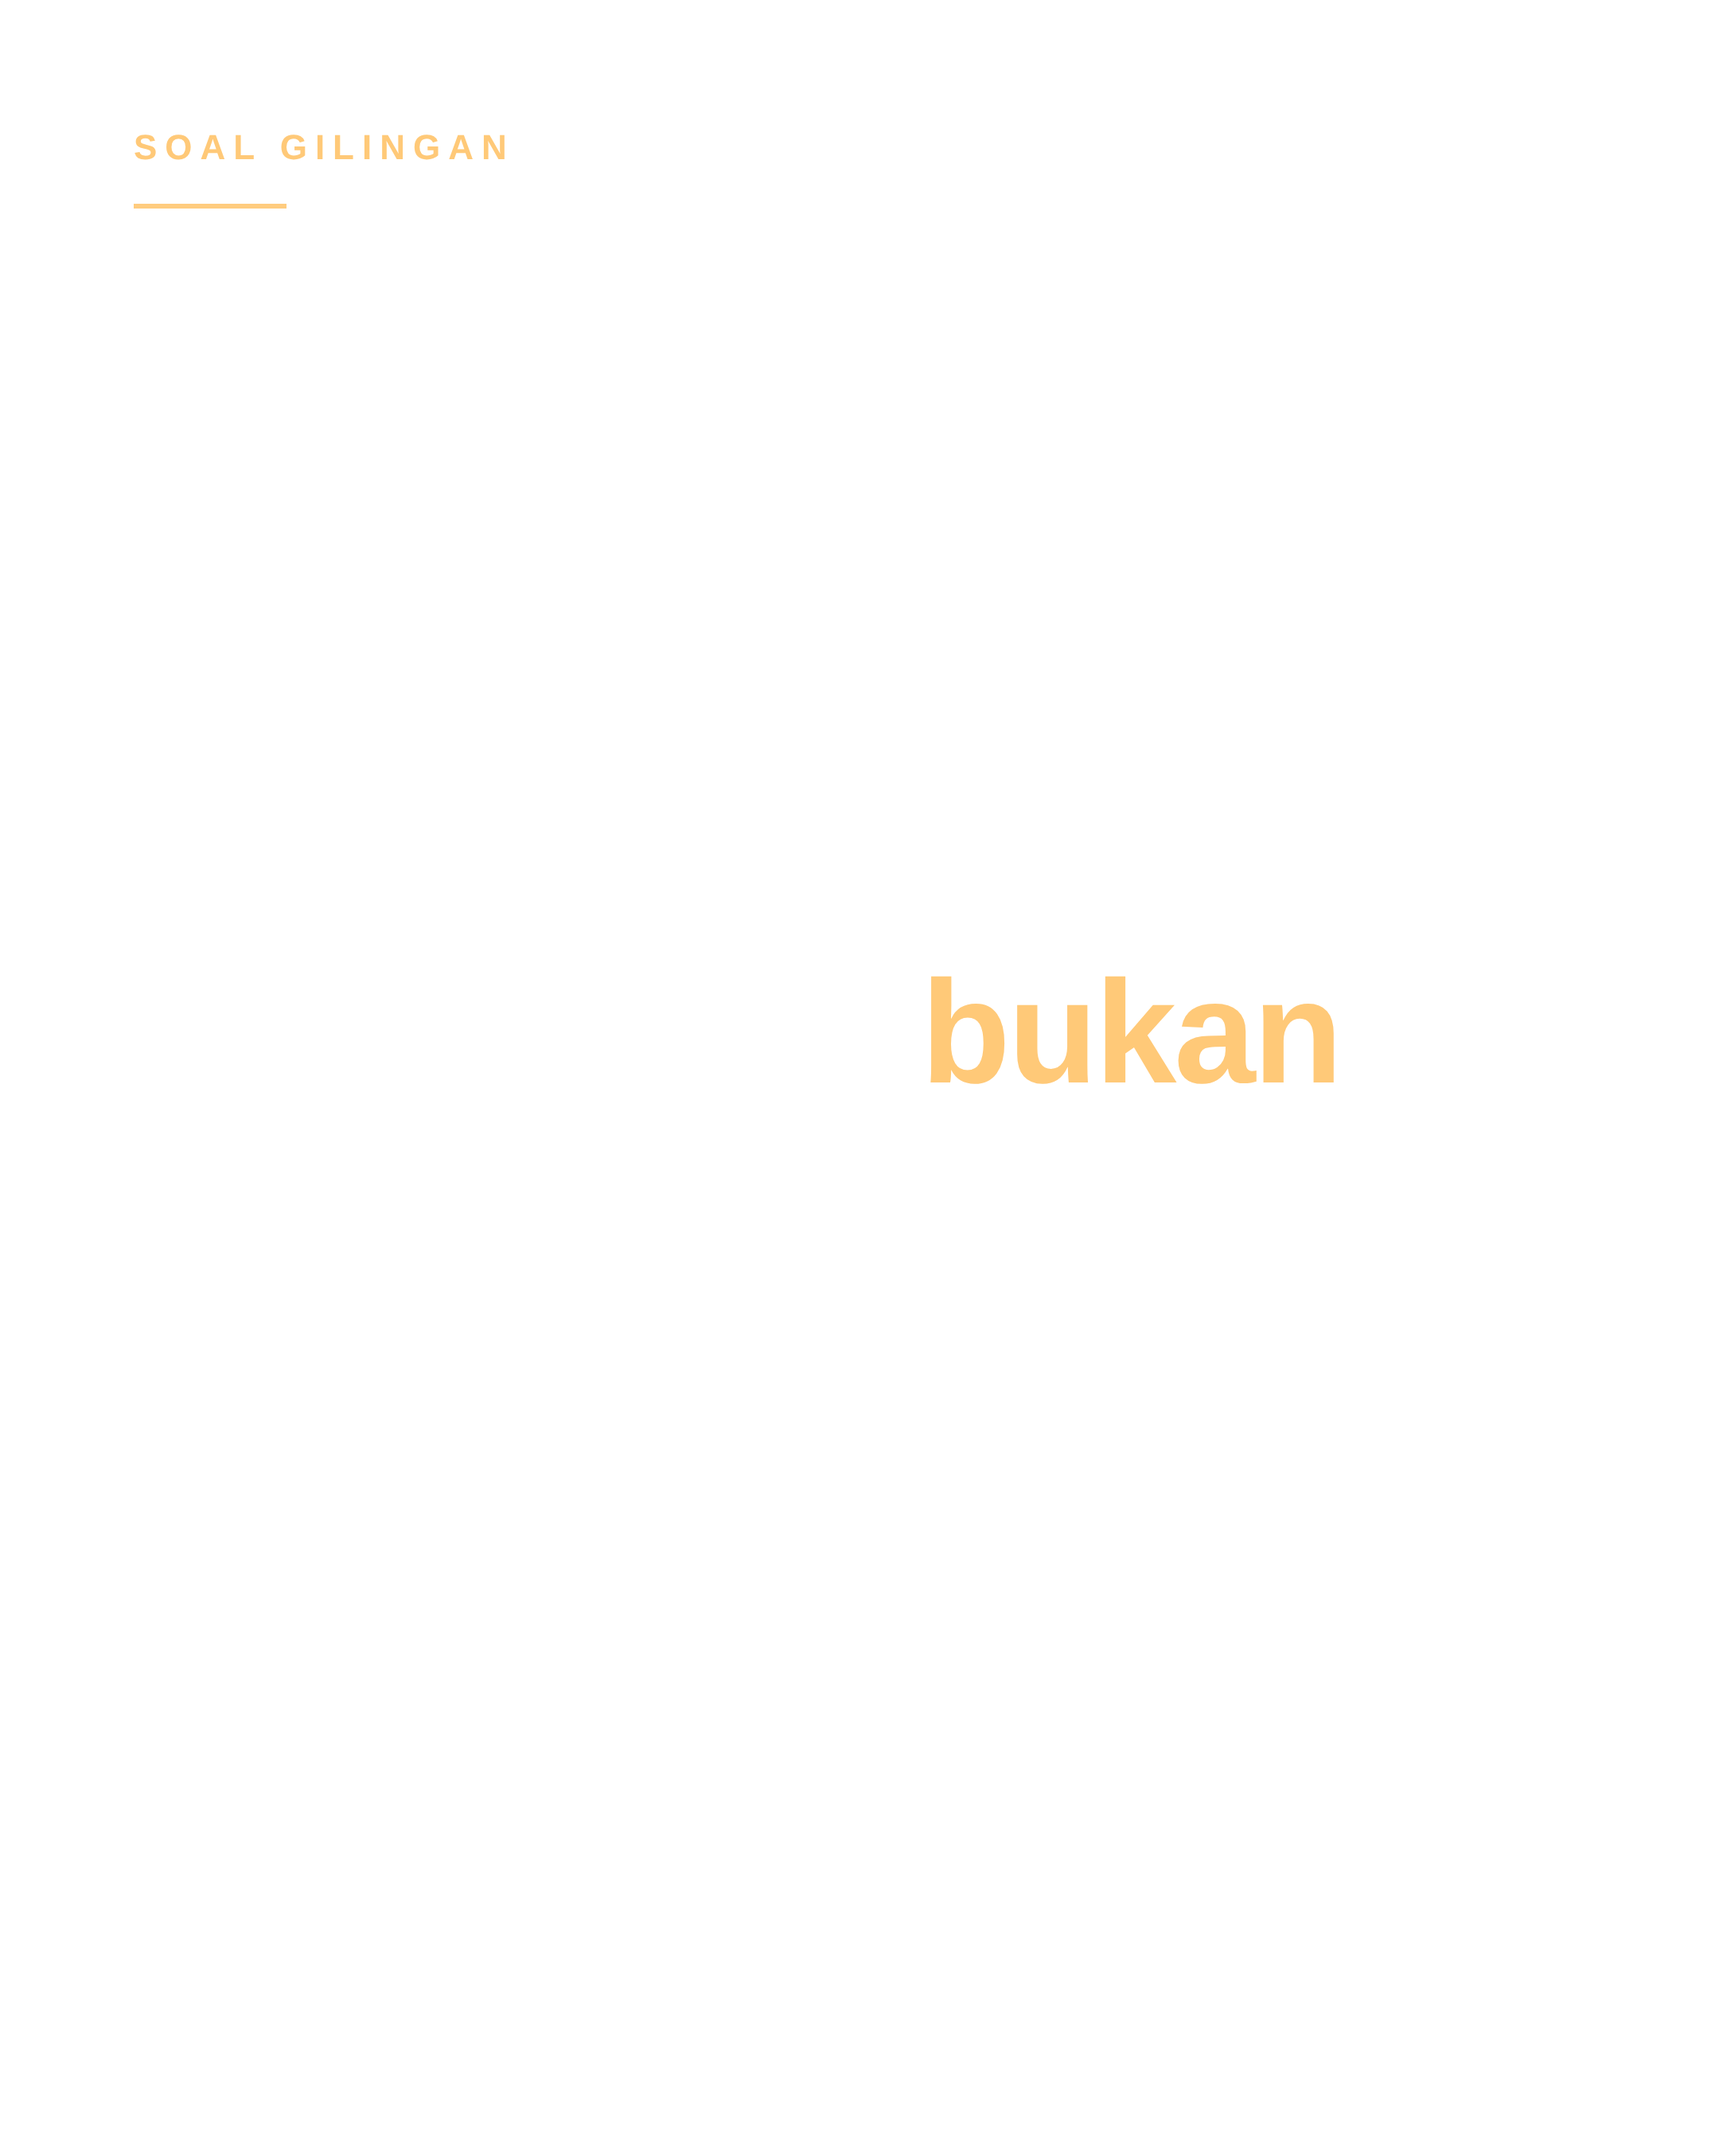
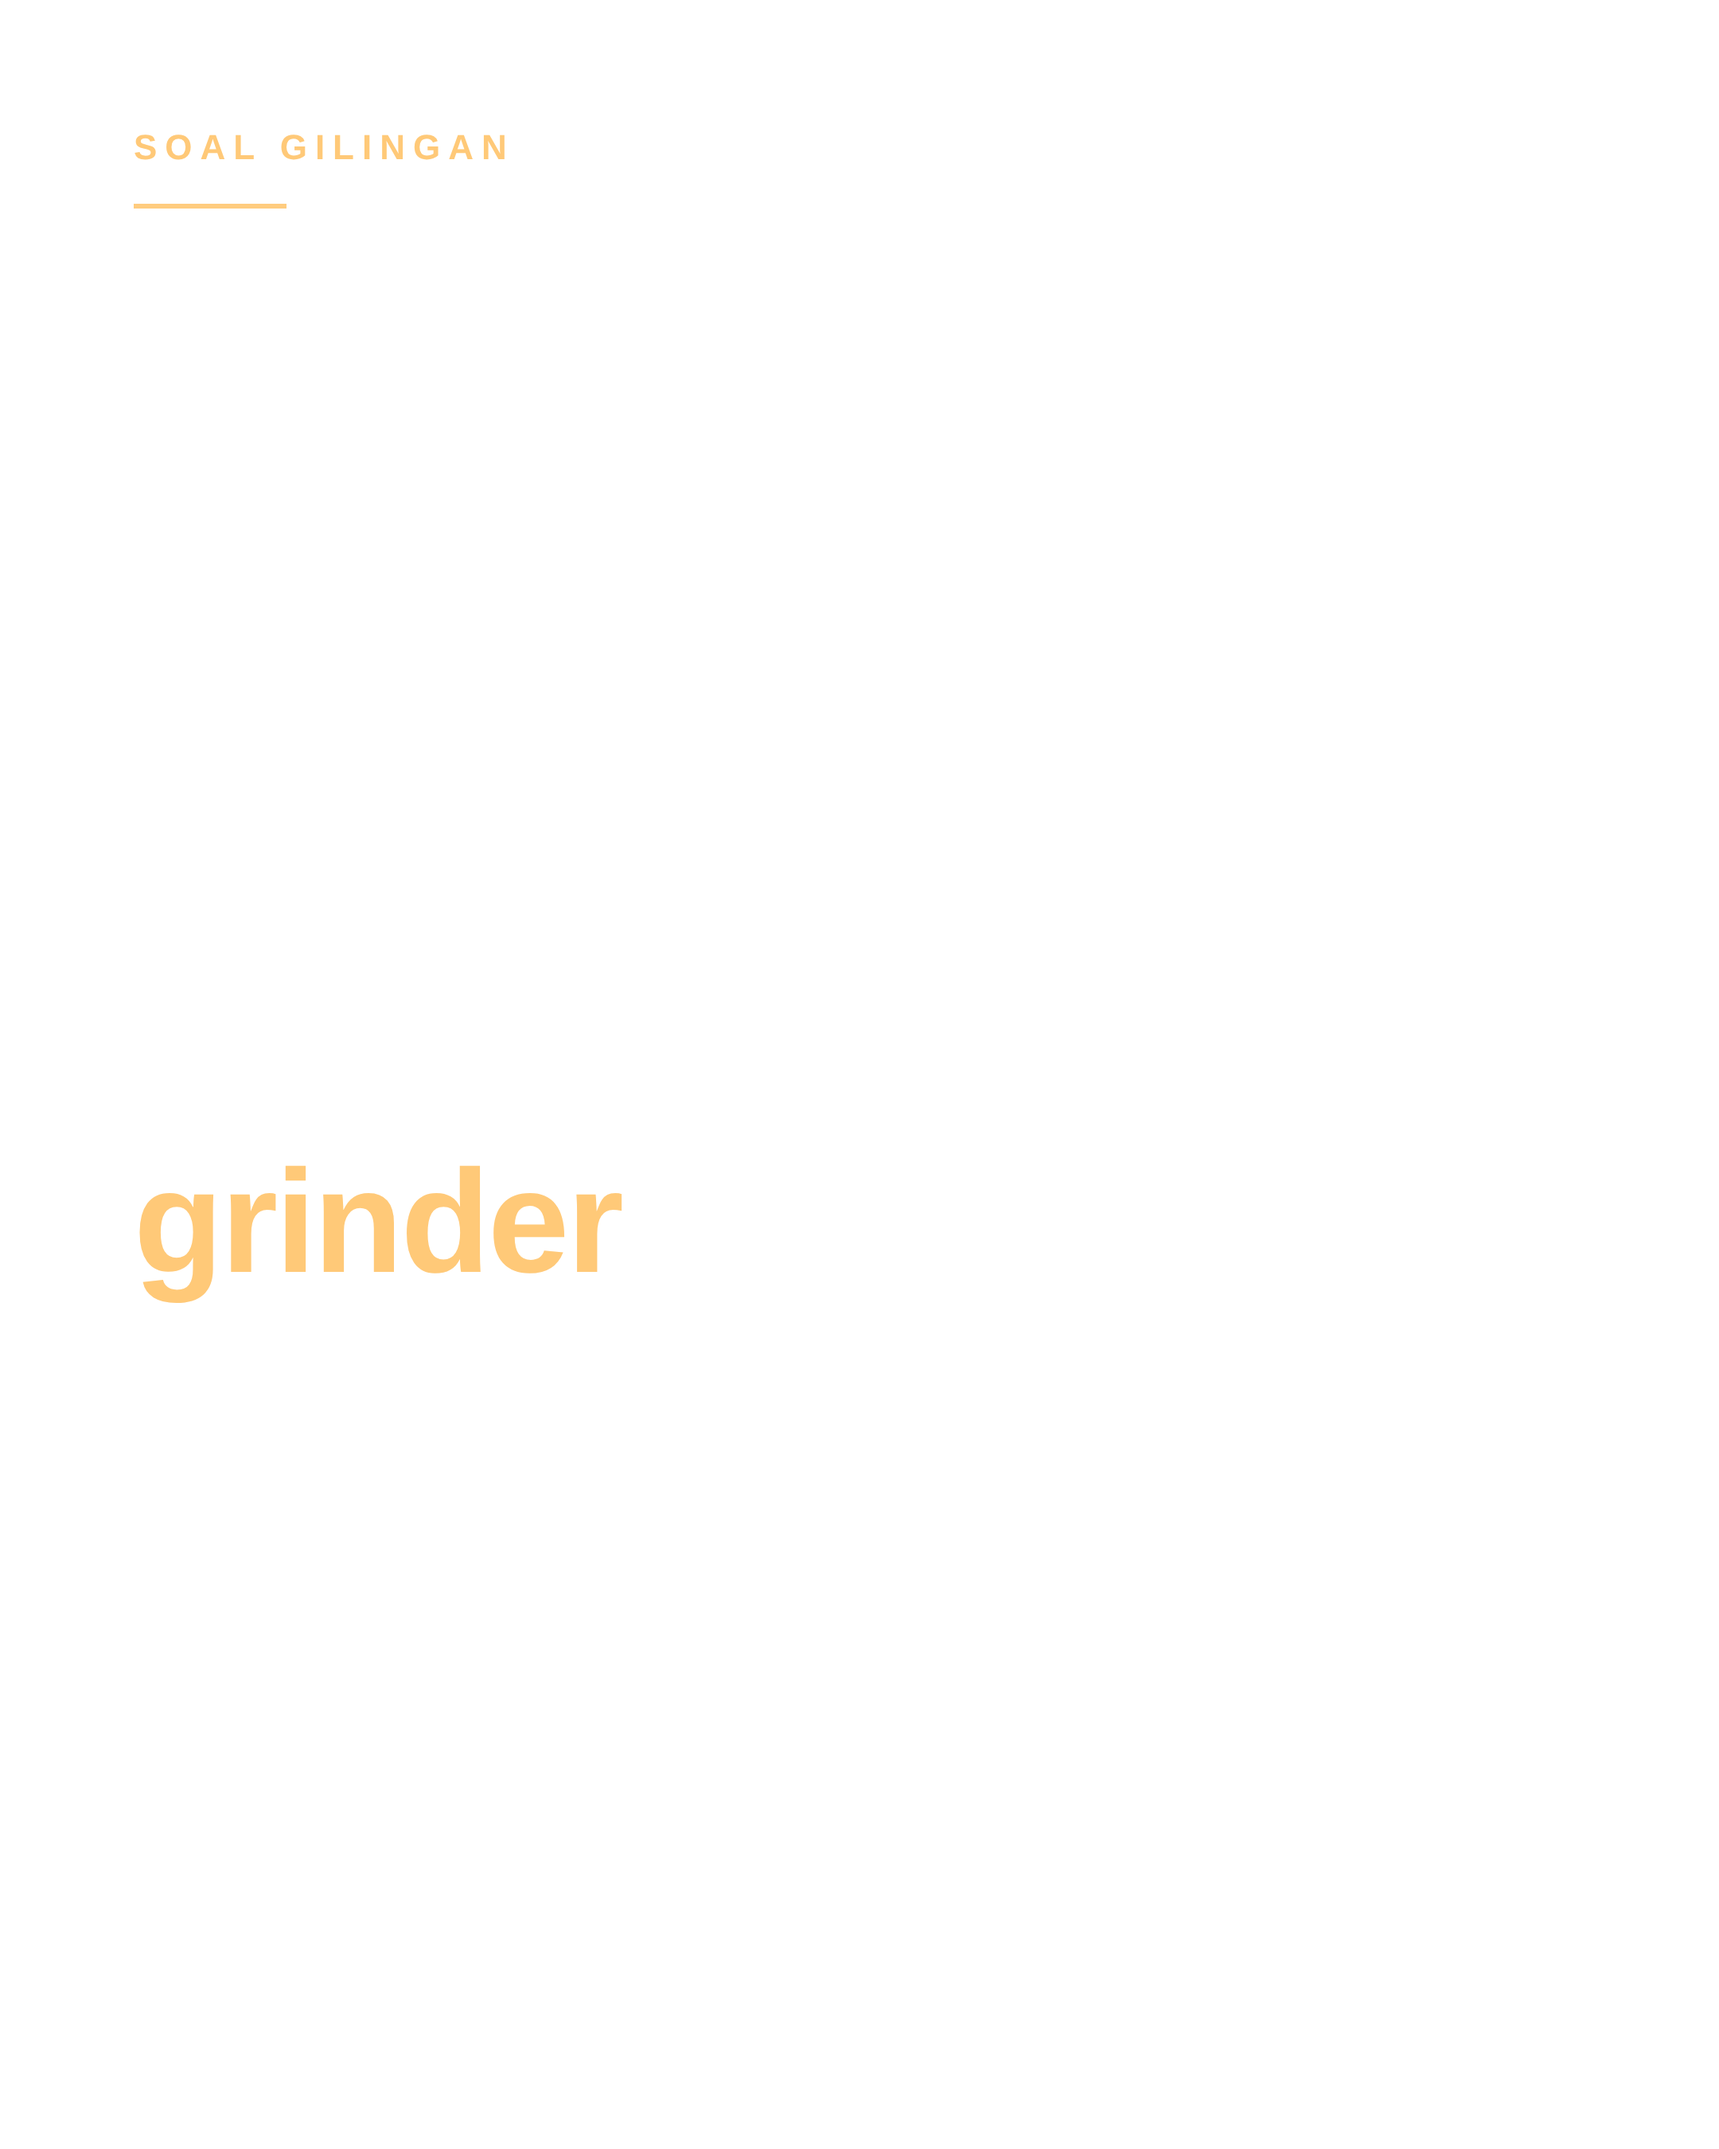
Tulis ulang carousel grinding dengan bahasa umum dan struktur masalah-dulu
Versi sebelumnya dibuka dengan nama konsep seperti sebaran bimodal
dan jarak difusi, sehingga terasa terlalu teknis. Sekarang tiap
slide berangkat dari keluhan yang orang benar-benar rasakan,
ditulis sebagai kalimat mereka sendiri, baru dijelaskan penyebabnya.

Lima masalah yang diangkat: air turun lambat dan kopi pahit,
digiling lebih halus malah makin buruk, rasa berbeda tiap hari,
bubuk menempel dan menyembur, serta perbedaan grinder mahal dan
murah. Slide penutup merangkum bahwa empat dari lima masalah itu
bisa diperbaiki tanpa membeli apa pun.

Istilah teknis dipindahkan ke daftar sumber, sementara badan slide
memakai padanan sehari-hari. Sumber dan level buktinya tidak
berubah.

Preferensi struktur masalah-dulu ini dicatat ke CLAUDE.md.

Claude-Session: https://claude.ai/code/session_01DWyspajaqx8W3wFxgo15X2

Changed region(s): [[0.5273, 0.4356, 0.7755, 0.5289], [0.062, 0.5289, 0.3722, 0.6222]]

diff --git a/CLAUDE.md b/CLAUDE.md
@@ -75,6 +75,11 @@ Dose 15 g · suhu 92 °C · rasio 1:15 · open switch di 0:50 · close switch 1:
    carousel air atas permintaannya. Konten boleh berakhir di ringkasan atau sumber.
 8. **Format poin lebih disukai** daripada paragraf panjang — gaya catatan tulis tangannya:
    satu baris, satu fungsi.
+8a. **MULAI DARI MASALAH, BUKAN DARI ISTILAH.** Ini kritik langsung Dustin di carousel grinding versi
+   pertama: terlalu advanced, kurang "ngena". Pola yang dia mau — tiap slide dibuka dengan **keluhan
+   yang orang beneran rasain**, ditulis seperti kalimat mereka sendiri (pakai tanda kutip), BARU
+   dijelaskan penyebabnya. Jangan buka slide dengan nama konsep (bimodal, difusi, triboelektrifikasi).
+   Istilah teknis boleh ada, tapi taruh di daftar sumber, bukan di headline.
 8b. **JANGAN tulis koreksi di dalam materi jadi.** Kalau ada yang salah di draf Dustin, langsung tulis
    versi benarnya tanpa menyebut versi lama. Sampaikan koreksinya lewat chat saja. Alasannya: kalau
    koreksi muncul di dokumen, orang mengira Dustin yang kasih informasi salah.
@@ -141,7 +146,7 @@ Render HTML → screenshot JPEG quality 94 / PNG `omitBackground: true`.
 | `aroma-floral/` | 7 slide — cara nonjolin aroma floral |
 | `rasio-1-15/` | 8 slide — kenapa 1:15 dianggap golden ratio |
 | `cut-brew/` | 7 slide — teknik motong seduhan sebelum selesai |
-| `grinding/` | 9 slide — **TANPA subtitle Inggris** (permintaan Dustin) |
+| `grinding/` | 9 slide — **TANPA subtitle Inggris**, struktur **masalah-dulu** |
 
 ---
 
